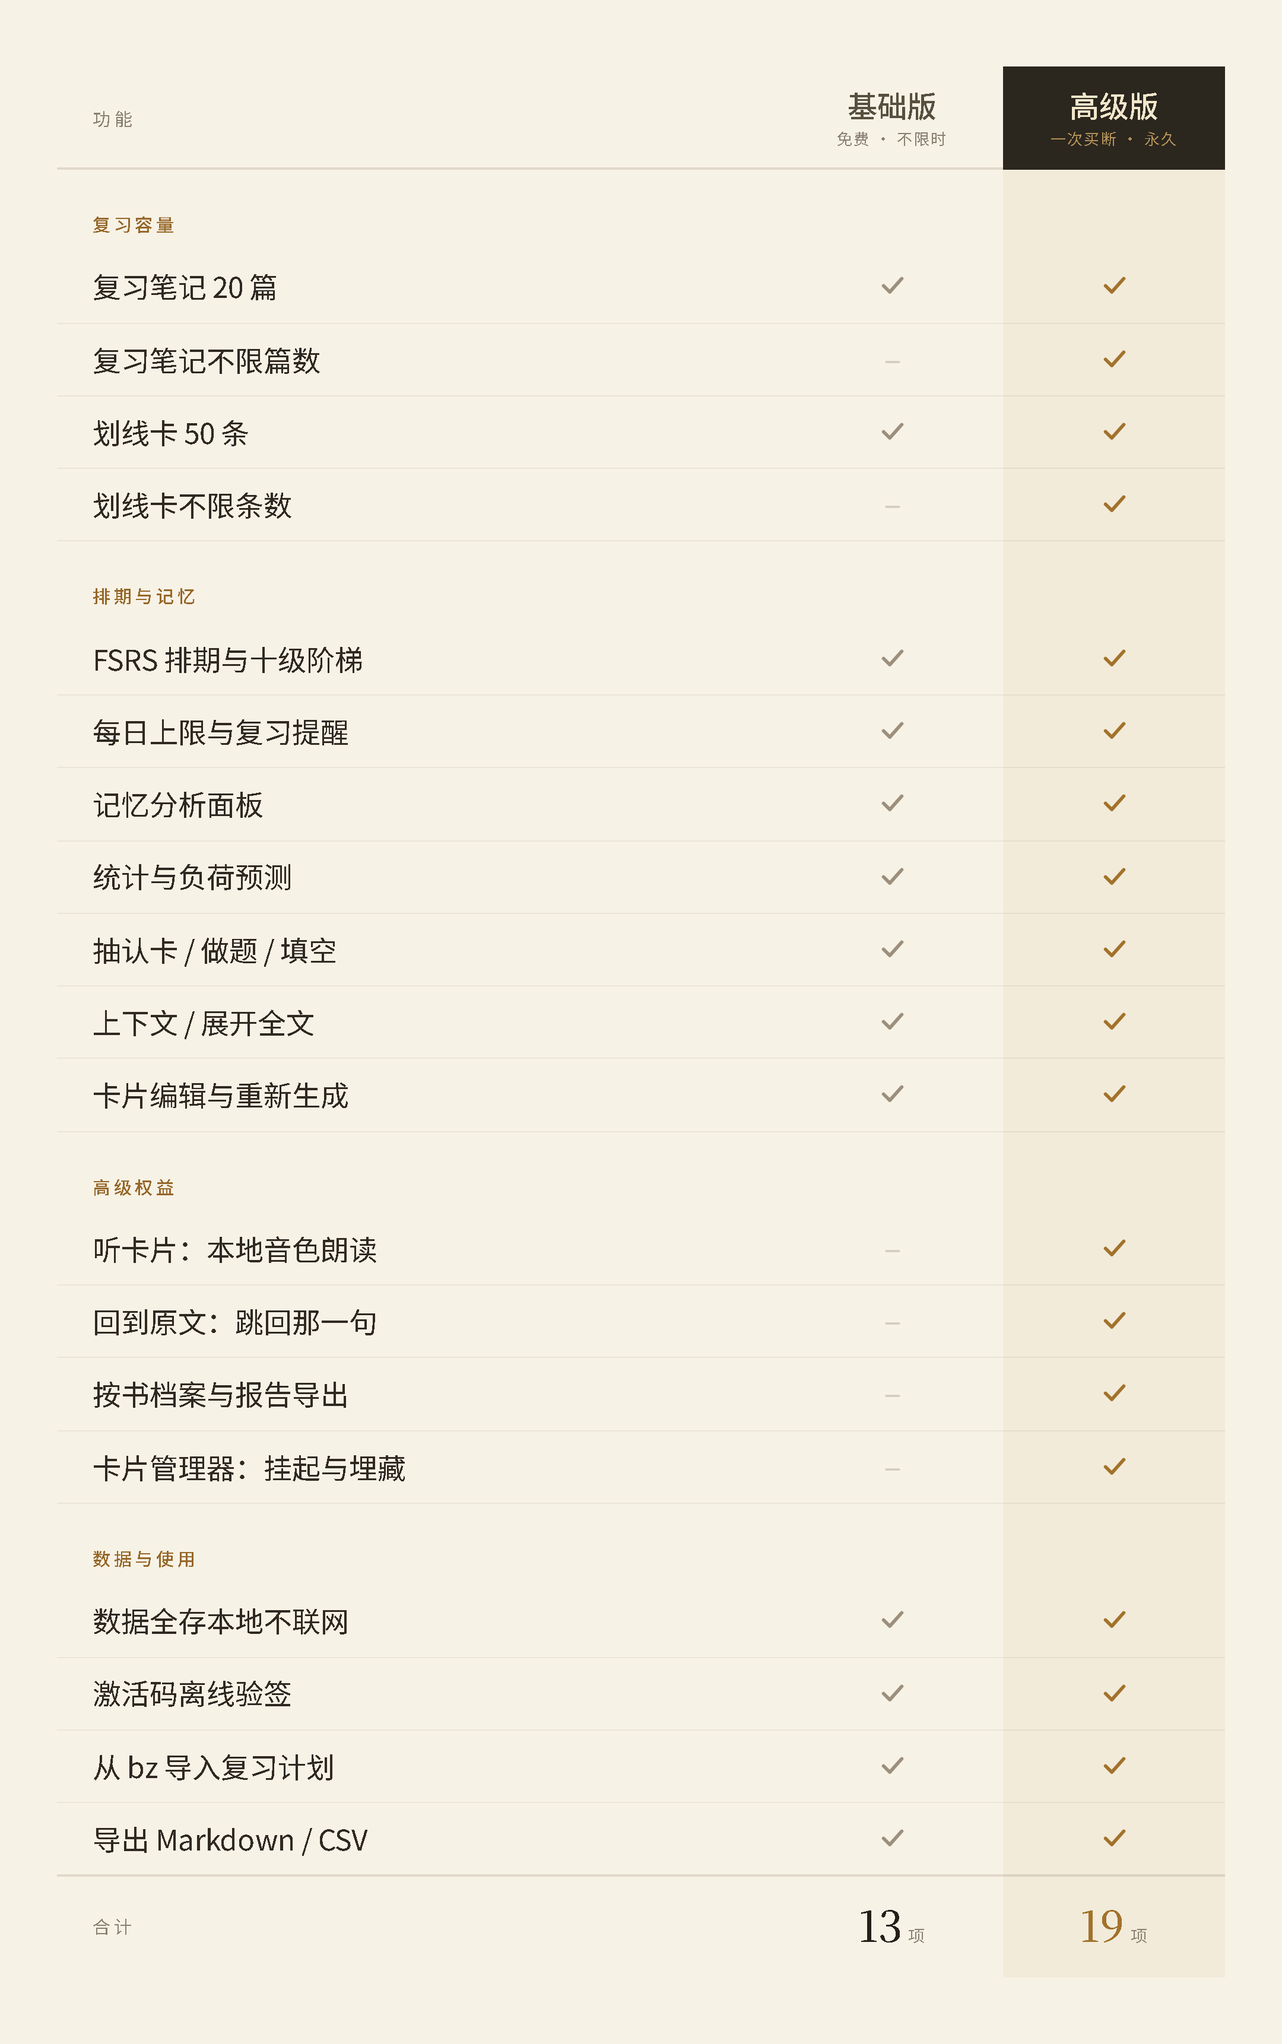
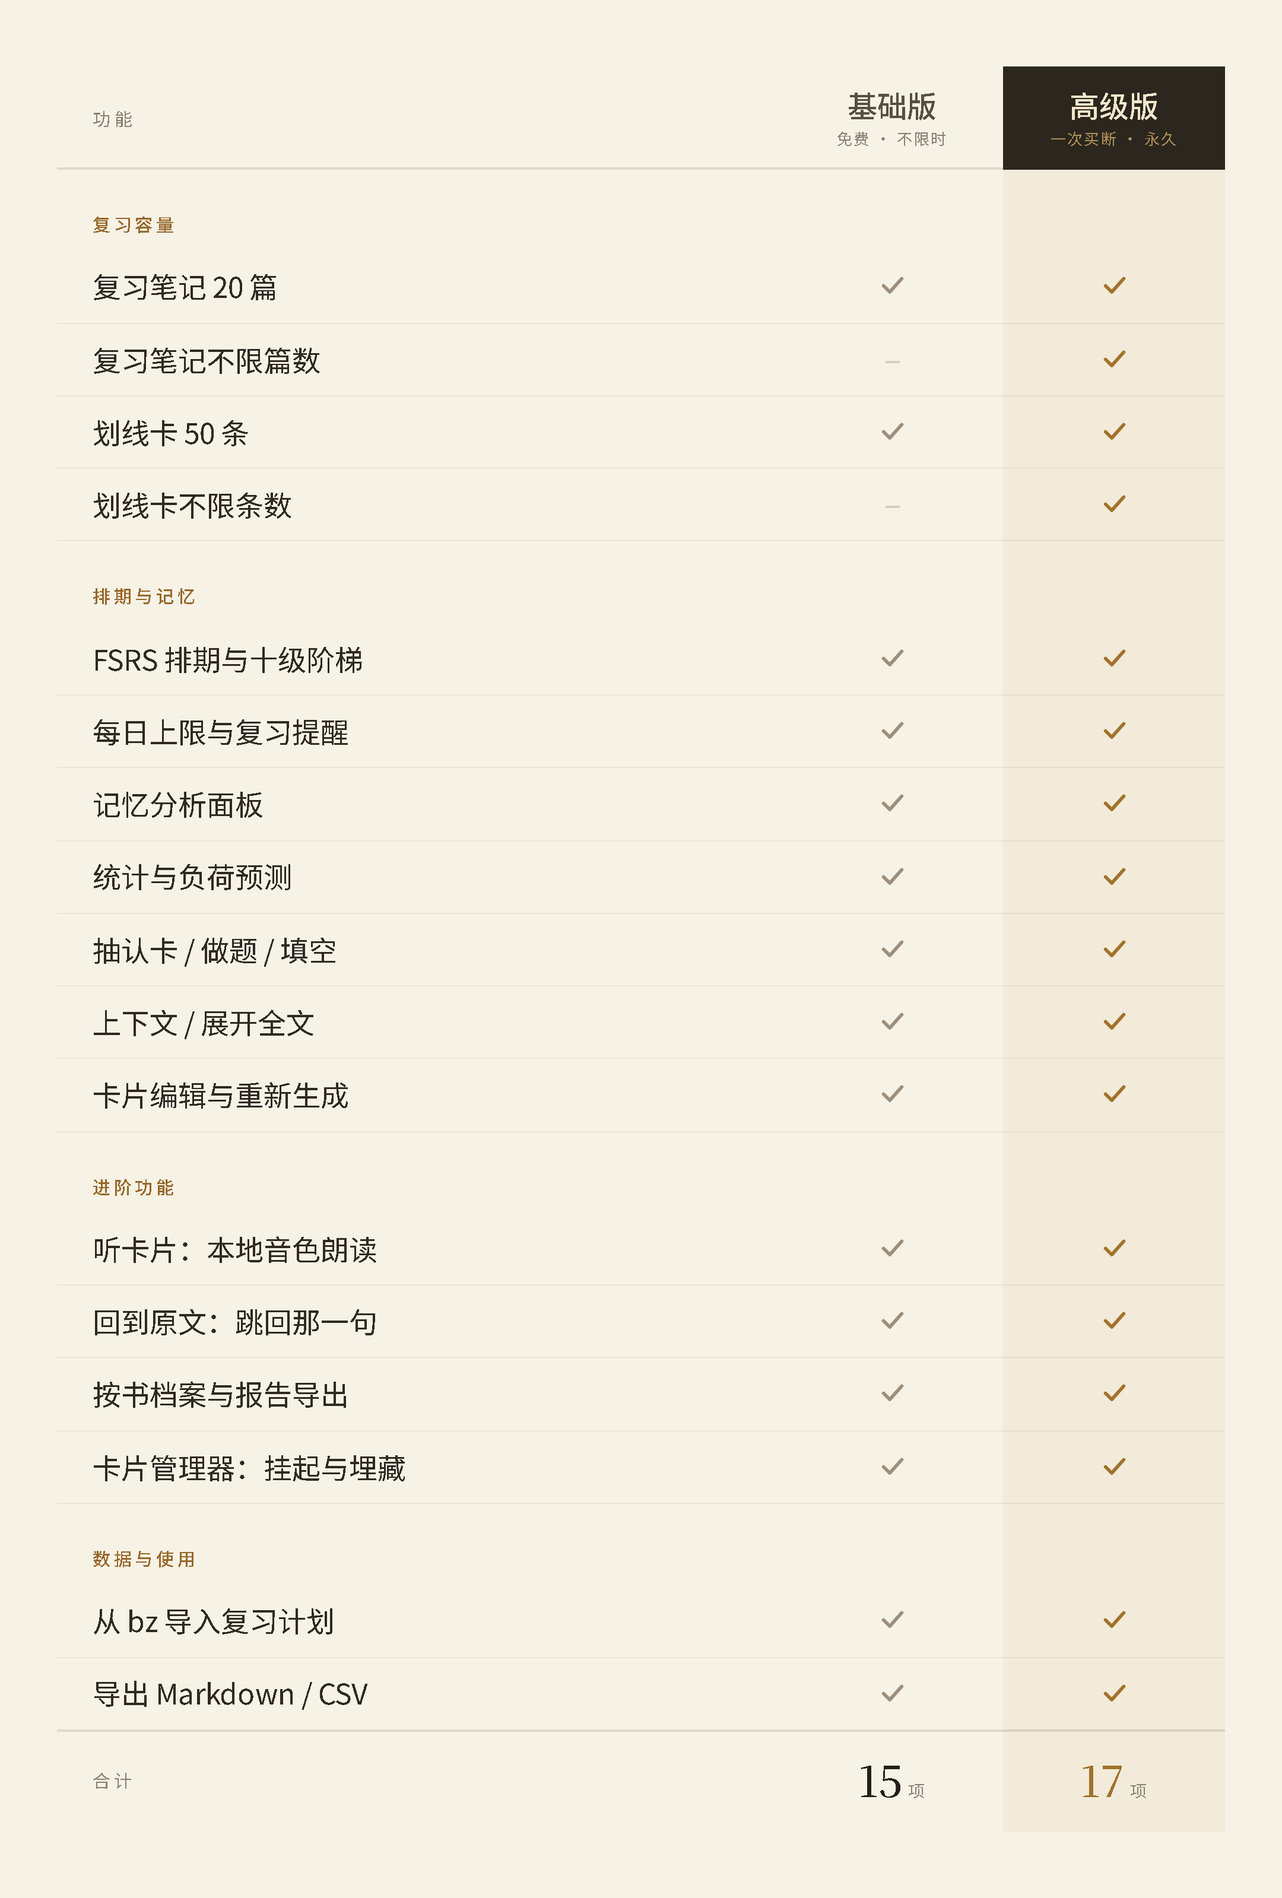
feat: 放开全部功能门控——两版功能一致，只限 20/50 数量，未来新增功能同样放开

diff --git a/src/data/entitlement.ts b/src/data/entitlement.ts
@@ -1,14 +1,14 @@
 /**
- * 授权状态、数量限制与高级档能力位（src/data/entitlement.ts）
+ * 授权状态、数量限制与能力登记（src/data/entitlement.ts）
  *
- * 与 bz / bz Reader / 归物本同构：一个完整包，运行期由激活码决定「高级版」是否解锁。
+ * 与 bz / bz Reader / 归物本同构：一个完整包，运行期由激活码决定数量上限。
  *
- * 门控口径从 1.0 的「只锁数量」升级为**双门槛**：
+ * 产品决策（2026-11-18）：基础版与高级版功能完全一致，只限数量——
  *   数量：基础版复习笔记 20 篇 + 划线卡 50 条（两类分别计数），高级版都不限；
- *   能力：听卡片、跳回原文高亮、按书报告导出、卡片管理器四项为高级档权益。
+ *   能力：全部放开。现有四项免费可用，未来新增功能同样不对基础版关闭。
  *
- * 原来的提醒、评级、排期、统计、记忆分析、五种复习方式仍然两边完全一致——
- * 能力位只锁新增的、有明确付费证据且零持续成本的入口，不碰基础体验。
+ * 能力位保留为登记清单（PRO_CAPABILITIES / CAPABILITY_LABELS），
+ * 供界面文案、用量口径与测试引用；门控本身恒放行，架构上不再有功能差异。
  */
 import { parseLicense, verifyLicense } from './license';
 
@@ -127,12 +127,12 @@ export function quotaBlock(
 }
 
 /**
- * 高级档能力位。名字只用于运行期门控，界面文案走 CAPABILITY_LABELS，
- * 不在这里塞中文句子，免得各入口写法不一致。
+ * 能力位登记表。仅用于界面文案与口径自查，不再是门控——所有能力恒放行。
+ * 名字不在这里塞中文句子，界面文案走 CAPABILITY_LABELS。
  */
 export type ProCapability = 'speech' | 'sourceLink' | 'bookReport' | 'cardManager';
 
-/** 唯一权威：新增能力必须先登记在这里，否则 canUseCapability 一律不放行 */
+/** 已知能力清单（只作登记，不参与放行判断） */
 export const PRO_CAPABILITIES: readonly ProCapability[] = [
   'speech',
   'sourceLink',
@@ -147,19 +147,17 @@ export const CAPABILITY_LABELS: Record<ProCapability, string> = {
   cardManager: '卡片管理器',
 };
 
-/** 未登记的能力名一律视为不可用，防止调用方拼错字符串后误放行 */
-export function canUseCapability(cap: ProCapability): boolean {
-  return isPaid() && PRO_CAPABILITIES.includes(cap);
+/**
+ * 能力恒放行（产品决策 2026-11-18）：基础版与高级版功能完全一致，只限数量。
+ * 连未知能力名也放行，这样未来新增功能不会被误锁成高级版专属。
+ */
+export function canUseCapability(_cap: ProCapability): boolean {
+  return true;
 }
 
-/** 入口拦截时给一句能直接弹给人的话；文案不谈删除，避免用户误以为超限没收数据 */
-export function capabilityBlock(cap: ProCapability): { ok: boolean; message: string } {
-  if (canUseCapability(cap)) return { ok: true, message: '' };
-  const label = CAPABILITY_LABELS[cap] ?? '该功能';
-  return {
-    ok: false,
-    message: `「${label}」是高级版权益，激活后即可使用。已有数据不会被删。`,
-  };
+/** 不再有功能拦截：任何入口都不弹升级提示，只保留数量上限的 quotaBlock */
+export function capabilityBlock(_cap: ProCapability): { ok: boolean; message: string } {
+  return { ok: true, message: '' };
 }
 
 /** 设置页的授权状态行 */
@@ -167,13 +165,13 @@ export function licenseSummary(): string {
   if (!state.paid) {
     const parsed = cachedCode ? parseLicense(cachedCode) : null;
     if (parsed?.payload?.exp && Date.now() > parsed.payload.exp) {
-      return `基础版：${FREE_NOTE_LIMIT} 篇笔记 + ${FREE_CARD_LIMIT} 条划线，四项高级功能未解锁。当前激活码已过期。`;
+      return `基础版：${FREE_NOTE_LIMIT} 篇笔记 + ${FREE_CARD_LIMIT} 条划线，所有功能可用。当前激活码已过期。`;
     }
-    return `基础版：${FREE_NOTE_LIMIT} 篇笔记 + ${FREE_CARD_LIMIT} 条划线，四项高级功能未解锁。填激活码解锁。`;
+    return `基础版：${FREE_NOTE_LIMIT} 篇笔记 + ${FREE_CARD_LIMIT} 条划线，所有功能可用；填激活码解锁不限数量。`;
   }
   const who = state.name ? `（${state.name}）` : '';
   const until = state.exp ? `有效期到 ${new Date(state.exp).toLocaleDateString()}` : '永久有效';
-  return `高级版已激活${who}：${until}，数量不限、四项高级功能可用。`;
+  return `高级版已激活${who}：${until}，数量不限、所有功能可用。`;
 }
 
 /**

diff --git a/tests/capability.test.ts b/tests/capability.test.ts
@@ -1,9 +1,9 @@
 /**
- * 高级档能力位：从「只锁数量」升级为「数量 + 少数高价值功能」双门槛。
+ * 能力位：产品决策 2026-11-18 —— 基础版与高级版功能完全一致，只限数量。
  *
- * 这四个权益都是卖断制下可验证、零持续成本的功能：
- * 听卡片、跳回原文高亮、按书报告导出、卡片管理器。
- * 这里先把「免费不可用 / 激活后可用 / 拦截文案不误导」钉住，再接入入口。
+ * 能力位保留为登记清单（供界面文案与测试引用），但门控恒放行：
+ * 现在四个能力免费可用，未来新增的能力同样不对基础版关闭。
+ * 唯一差异是复习笔记 20 篇 / 划线卡 50 条的数量上限。
  */
 import { beforeEach, describe, expect, it } from 'vitest';
 import {
@@ -11,6 +11,7 @@ import {
   canAddNote,
   canUseCapability,
   capabilityBlock,
+  licenseSummary,
   setLicenseState,
   type ProCapability,
 } from '../src/data/entitlement';
@@ -21,46 +22,40 @@ beforeEach(() => {
   setLicenseState({ paid: false, checkedAt: 0 });
 });
 
-describe('高级档能力位 · 门控口径', () => {
-  it('免费档四个能力全部不可用', () => {
+describe('能力位 · 全部放开', () => {
+  it('免费档四个能力全部可用', () => {
     for (const cap of CAPS) {
-      expect(canUseCapability(cap), `${cap} 不该免费放开`).toBe(false);
+      expect(canUseCapability(cap), `${cap} 不该被锁`).toBe(true);
     }
   });
 
-  it('激活后四个能力全部可用', () => {
+  it('激活后同样可用，不改变口径', () => {
     setLicenseState({ paid: true, checkedAt: Date.now(), name: '测试用户' });
     for (const cap of CAPS) {
       expect(canUseCapability(cap), `${cap} 激活后该可用`).toBe(true);
     }
   });
 
-  it('未知能力不误放行', () => {
-    expect(canUseCapability('unknown' as ProCapability)).toBe(false);
+  it('未来新增的能力名也放行——架构上不再有功能差异', () => {
+    expect(canUseCapability('futureFeature' as ProCapability)).toBe(true);
   });
 
-  it('数量限制不受能力位影响，不回归原口径', () => {
+  it('数量限制不受能力位影响，仍是 20 篇 / 50 条', () => {
     expect(canAddNote(0)).toBe(true);
     expect(canAddNote(FREE_NOTE_LIMIT)).toBe(false);
   });
+
+  it('授权状态文案只谈数量，不再说功能未解锁', () => {
+    const free = licenseSummary();
+    expect(free).not.toContain('未解锁');
+    expect(free).toContain('20 篇');
+  });
 });
 
-describe('高级档能力位 · 拦截文案', () => {
-  it('每个能力都给一句能直接弹给人的话', () => {
+describe('能力位 · 不再有拦截文案', () => {
+  it('任何能力都不拦截，也不给多余提示', () => {
     for (const cap of CAPS) {
-      const block = capabilityBlock(cap);
-      expect(block.ok, cap).toBe(false);
-      expect(block.message, cap).toContain('高级版');
-      expect(block.message.length, cap).toBeGreaterThan(8);
+      expect(capabilityBlock(cap)).toEqual({ ok: true, message: '' });
     }
-  });
-
-  it('文案明确不删数据，避免让用户误以为超限就没收', () => {
-    expect(capabilityBlock('speech').message).toContain('已有数据不会被删');
-  });
-
-  it('未拦截时不给多余提示', () => {
-    setLicenseState({ paid: true, checkedAt: 0 });
-    expect(capabilityBlock('cardManager')).toEqual({ ok: true, message: '' });
   });
 });

diff --git a/src/core/changelog-data.ts b/src/core/changelog-data.ts
@@ -61,10 +61,10 @@ export const CHANGELOG_RELEASES: readonly ChangelogRelease[] = [
     added: [
       { domain: '工作台', text: '双栏复习工作台，卡片形态随类型实时切换。' },
       { domain: '复习方式', text: '抽认卡、做题、填空、上下文、展开全文，五种方式按卡记忆。' },
-      { domain: '听卡片', text: '高级版：本地 TTS 朗读，离线可用，不按次收费。' },
-      { domain: '回到原文', text: '高级版：揭示答案后跳回书里那一句。' },
-      { domain: '按书档案', text: '高级版：分组统计与 Markdown 报告导出。' },
-      { domain: '卡片管理器', text: '高级版：挂起、埋藏、手动排期，不改 FSRS 排期。' },
+      { domain: '听卡片', text: '本地 TTS 朗读，离线可用，不按次收费。' },
+      { domain: '回到原文', text: '揭示答案后跳回书里那一句。' },
+      { domain: '按书档案', text: '分组统计与 Markdown 报告导出。' },
+      { domain: '卡片管理器', text: '挂起、埋藏、手动排期，不改 FSRS 排期。' },
     ],
     improved: [
       { domain: 'Reader 联动', text: '推卡时带上跳回原文的链接与前后文。' },

diff --git a/src/review/card-session.ts b/src/review/card-session.ts
@@ -74,7 +74,7 @@ export function speakTextOf(
 /** 喇叭按钮：未解锁只给一个点了会弹拦截文案的按钮，不给真播放入口 */
 export function speakButtonHtml(allowed: boolean, state: SpeakState = 'idle'): string {
   if (!allowed) {
-    return '<button type="button" class="bzrv-cs-speak is-locked" data-act="speak-locked">听这张（高级版）</button>';
+    return '<button type="button" class="bzrv-cs-speak is-locked" data-act="speak-locked">听这张</button>';
   }
   return `<button type="button" class="bzrv-cs-speak" data-act="speak">${speakLabelOf(state)}</button>`;
 }
@@ -84,7 +84,7 @@ export function backButtonHtml(hasLink: boolean, allowed: boolean): string {
   if (!hasLink) return '';
   return allowed
     ? '<button type="button" class="bzrv-cs-back" data-act="back">回到原文</button>'
-    : '<button type="button" class="bzrv-cs-back is-locked" data-act="back-locked">回到原文（高级版）</button>';
+    : '<button type="button" class="bzrv-cs-back is-locked" data-act="back-locked">回到原文</button>';
 }
 
 /** 出处那行：书名 · 章节 */

diff --git a/assets/plan-compare/index.html b/assets/plan-compare/index.html
@@ -189,8 +189,8 @@
       <tfoot>
         <tr>
           <td class="f">合计</td>
-          <td class="c free"><b>13</b><em>项</em></td>
-          <td class="c pro"><b>19</b><em>项</em></td>
+          <td class="c free"><b>15</b><em>项</em></td>
+          <td class="c pro"><b>17</b><em>项</em></td>
         </tr>
       </tfoot>
     </table>
@@ -215,15 +215,13 @@ const GROUPS = [
     ['上下文 / 展开全文', 1, 1],
     ['卡片编辑与重新生成', 1, 1],
   ]],
-  ['高级权益', [
-    ['听卡片：本地音色朗读', 0, 1],
-    ['回到原文：跳回那一句', 0, 1],
-    ['按书档案与报告导出', 0, 1],
-    ['卡片管理器：挂起与埋藏', 0, 1],
+  ['进阶功能', [
+    ['听卡片：本地音色朗读', 1, 1],
+    ['回到原文：跳回那一句', 1, 1],
+    ['按书档案与报告导出', 1, 1],
+    ['卡片管理器：挂起与埋藏', 1, 1],
   ]],
   ['数据与使用', [
-    ['数据全存本地不联网', 1, 1],
-    ['激活码离线验签', 1, 1],
     ['从 bz 导入复习计划', 1, 1],
     ['导出 Markdown / CSV', 1, 1],
   ]],

diff --git a/tests/analysis-books.test.ts b/tests/analysis-books.test.ts
@@ -159,10 +159,10 @@ describe('新字段持久化与高级档门控', () => {
     expect(out.isOverdue).toBeUndefined();
   });
 
-  it('bookReport / cardManager 属高级档，未解锁弹能力位文案', () => {
-    expect(canUseCapability('bookReport')).toBe(false);
-    expect(canUseCapability('cardManager')).toBe(false);
-    expect(capabilityBlock('bookReport').ok).toBe(false);
-    expect(capabilityBlock('cardManager').message).toContain('高级版');
+  it('bookReport / cardManager 全部放开，基础版也能用', () => {
+    expect(canUseCapability('bookReport')).toBe(true);
+    expect(canUseCapability('cardManager')).toBe(true);
+    expect(capabilityBlock('bookReport').ok).toBe(true);
+    expect(capabilityBlock('cardManager').ok).toBe(true);
   });
 });

diff --git a/README.md b/README.md
@@ -18,7 +18,7 @@
 </div>
 
 
-<p align="center"><b>一个插件包、一套功能，付费只解锁数量与四项高级权益</b></p>
+<p align="center"><b>一个插件包、一套功能，付费只解锁数量，功能完全一样</b></p>
 
 
 ## 安装
@@ -33,7 +33,7 @@
 
 ## 功能
 
-基础版免费、不限时，限 20 篇笔记与 50 条划线卡；高级版不限量，再加四项高级权益。
+基础版免费、不限时，限 20 篇笔记与 50 条划线卡；高级版不限量。两版功能完全一样，以后新增的功能也一样。
 
 | 类别 | 功能 | 基础版 | 高级版 |
 |---|---|:---:|:---:|
@@ -46,14 +46,14 @@
 |  | 抽认卡 / 做题 / 填空 | ✓ | ✓ |
 |  | 上下文 / 展开全文 | ✓ | ✓ |
 |  | 卡片编辑与重新生成 | ✓ | ✓ |
-| **高级权益** | 听卡片：本地音色朗读 | — | ✓ |
-|  | 回到原文：跳回书里那一句 | — | ✓ |
-|  | 按书档案与报告导出 | — | ✓ |
-|  | 卡片管理器：挂起与埋藏 | — | ✓ |
+| **进阶功能** | 听卡片：本地音色朗读 | ✓ | ✓ |
+|  | 回到原文：跳回书里那一句 | ✓ | ✓ |
+|  | 按书档案与报告导出 | ✓ | ✓ |
+|  | 卡片管理器：挂起与埋藏 | ✓ | ✓ |
 | **数据与使用** | 从 bz 导入复习计划 | ✓ | ✓ |
 |  | 导出 Markdown / CSV | ✓ | ✓ |
 
-已有数据超过免费上限不会被删，只是不能再加新的；高级功能未解锁时入口会明确写「（高级版）」，点了给出升级说明，不会静默消失。
+已有数据超过免费上限不会被删，只是不能再加新的。两版功能完全一致，以后新增的功能也一律两边都有。
 
 ## 付费说明
 
@@ -101,7 +101,7 @@
 
 统计弹窗另给总复习次数、连续天数、逾期率、平均 R 趋势与单条时间线，都能导成 CSV。
 
-## 高级版专属功能
+## 进阶功能（两版都有）
 
 - **听卡片**：复习时点一下喇叭，用你自己的本地 TTS 服务念卡片（服务地址、音色、格式在设置里填）。合成结果缓存，换卡或退出自动释放，长文本只念前 200 字；离线可用，不按次收费。
 - **回到原文**：揭示答案后出现按钮，跳回 bz Reader 里那一句。协议按原文片段定位，不能还原高亮色；老版本 Reader 推来的卡也能靠卡片钥匙兜底跳转。
@@ -185,7 +185,7 @@ While the review is pending, or if search doesn't find it, install with [BRAT](h
 
 ### Features and pricing
 
-The free edition is complete and unlimited in time: 20 review notes and 50 highlight cards, with all scheduling, analysis, statistics and five review modes. The purchased edition removes the counts and adds four capabilities: speak cards with your own local TTS, jump back to the passage in bz Reader, per-book reports, and a card manager for suspend / bury / manual scheduling. Existing data above the free limits is never deleted.
+The free edition is complete and unlimited in time: 20 review notes and 50 highlight cards, with every feature the plugin has. The purchased edition only removes the counts — both editions are identical in features, and every future feature will be too. Existing data above the free limits is never deleted.
 
 A single build covers desktop and mobile. License keys are verified locally, offline, and are not tied to a device count — re-enter yours on a new machine. Purchase at the [store page](https://wzyp.cn/shop/IFCEI5I3). bz-review does not accept bz Reader license keys.
 

diff --git a/docs/note-v1.0.0.md b/docs/note-v1.0.0.md
@@ -6,10 +6,10 @@
 
 - **复习工作台**：双栏布局，内容区与侧栏分开；一轮里五种卡片形态混排，切到哪张就实时换成哪种题面。
 - **五种复习方式**：抽认卡、做题、填空、上下文、展开全文，每张卡各记各的方式。
-- **听卡片**（高级版）：用你自己的本地 TTS 服务朗读卡片，离线可用、不按次收费；合成结果缓存，换卡自动释放。
-- **回到原文**（高级版）：揭示答案后跳回 bz Reader 里那一句；老版本 Reader 推来的卡也能靠卡片钥匙兜底。
-- **按书档案**（高级版）：按书名／文件夹汇总卡片数、章节数、留存率、忘了率与逾期，一键导出 Markdown 报告。
-- **卡片管理器**（高级版）：搜索筛选、挂起、埋藏、恢复、手动排期、移出；挂起和埋藏不改 FSRS 排期。
+- **听卡片**：用你自己的本地 TTS 服务朗读卡片，离线可用、不按次收费；合成结果缓存，换卡自动释放。
+- **回到原文**：揭示答案后跳回 bz Reader 里那一句；老版本 Reader 推来的卡也能靠卡片钥匙兜底。
+- **按书档案**：按书名／文件夹汇总卡片数、章节数、留存率、忘了率与逾期，一键导出 Markdown 报告。
+- **卡片管理器**：搜索筛选、挂起、埋藏、恢复、手动排期、移出；挂起和埋藏不改 FSRS 排期。
 
 ## 改进
 
@@ -23,4 +23,4 @@
 - 窄窗口下筛选栏「不限状态」被挤压成半截字，已改为放不下就换行。
 - AI 偶尔只回半句填空，现在降级为看原文，不再让用户背残句。
 
-> 基础版与高级版的功能对照见仓库 `assets/plan-compare/shots/pro-compare.png` 与 README。
+> 基础版与高级版只有数量上限不同（免费 20 篇笔记 / 50 条划线），功能完全一样，以后新增的功能也一样。
